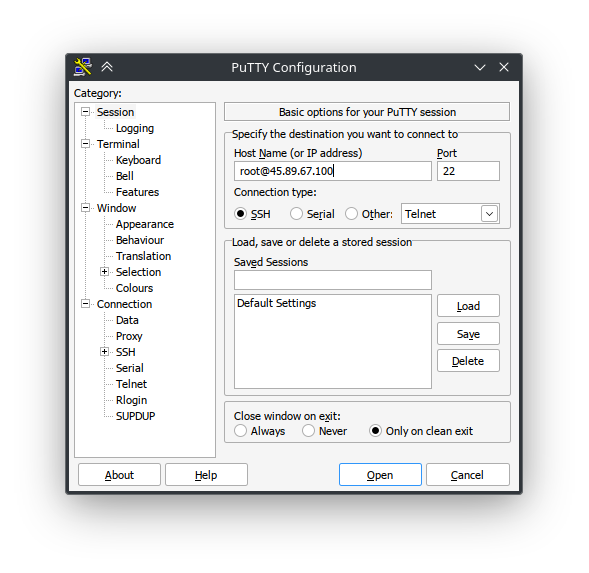
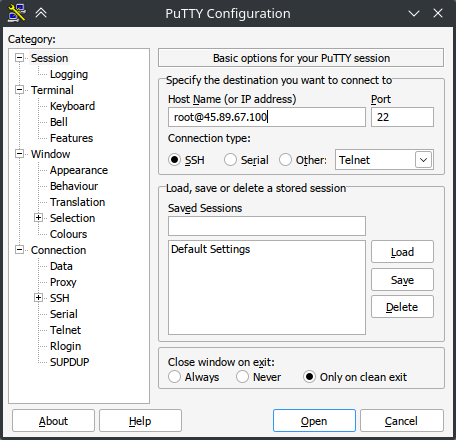
vault backup: 2024-06-02 16:06:10

diff --git a/Security/Keenetic/Установка Vless (3X-UI, Entware, Xkeen, Xray).md b/Security/Keenetic/Установка Vless (3X-UI, Entware, Xkeen, Xray).md
@@ -12,10 +12,11 @@ debugInConsole: false # Print debug info in Obsidian console
 
 Российские VDS сервера можно арендовать по [ссылке](https://vps.today/)
 
-В качестве ssh клиента на Windows можно использовать [Putti](https://the.earth.li/~sgtatham/putty/latest/w64/putty.exe)
+В качестве ssh клиента на Windows можно использовать [Putty](https://the.earth.li/~sgtatham/putty/latest/w64/putty.exe)
 
+>Адрес 45.89.67.100 выбран для примера
 
-![|500](/Media/Vless/putti.png)
+![450](/Media/Vless/putti.png)
 
 >На Linux/macOS используем стандартную консоль
 ```shell
